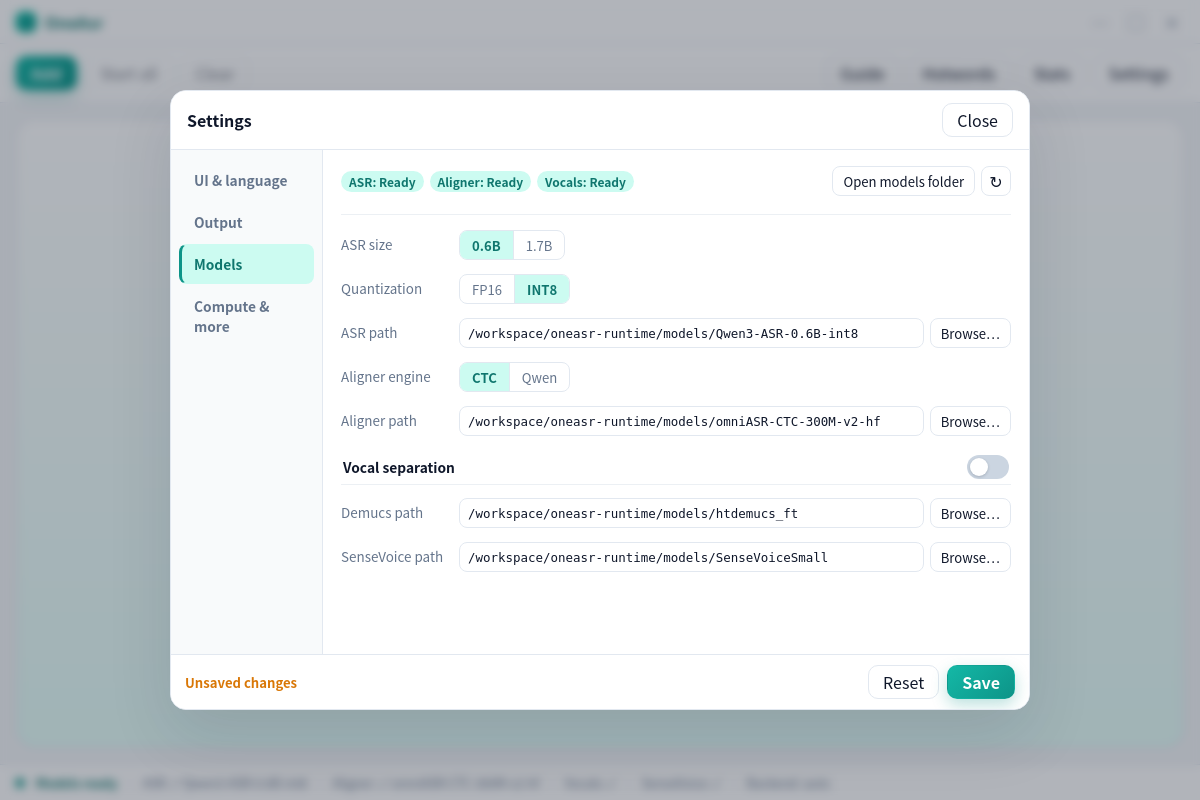
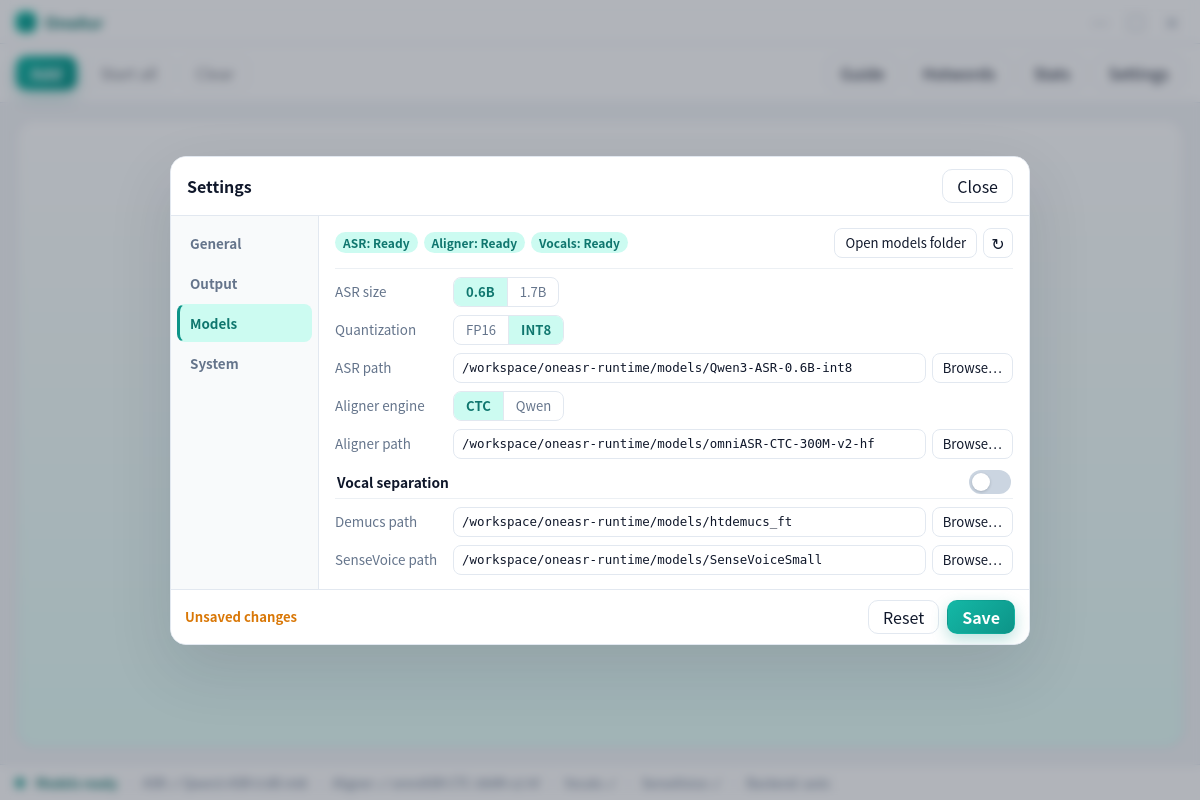
fix(electron): fit settings modal without inner scroll
Grow settings shell with content, drop pane overflow scroll, rename
nav to 通用/输出/模型/系统, and retake settings shots including System.

diff --git a/apps/electron/src/renderer/src/styles/app.css b/apps/electron/src/renderer/src/styles/app.css
@@ -182,7 +182,19 @@ button:disabled { opacity: 0.55; cursor: not-allowed; }
 }
 .modal-shell.wide { width: min(840px, 100%); }
 .modal-shell.tall { max-height: min(90vh, 860px); }
-.modal-shell.settings-shell { width: min(860px, 100%); max-height: min(78vh, 620px); height: min(78vh, 620px); }
+.modal-shell.hw-shell {
+  width: min(880px, 100%);
+  height: auto;
+  max-height: min(90vh, 720px);
+}
+.modal-shell.settings-shell {
+  width: min(860px, 100%);
+  height: auto;
+  max-height: min(90vh, 760px);
+  /* grow with content; only the whole shell scrolls if viewport is tiny */
+  overflow-x: hidden;
+  overflow-y: auto;
+}
 
 .modal-header {
   display: flex; align-items: center; gap: 8px;
@@ -217,8 +229,8 @@ button:disabled { opacity: 0.55; cursor: not-allowed; }
 }
 .field {
   display: grid; grid-template-columns: 108px 1fr;
-  gap: 10px; align-items: center;
-  min-height: 32px;
+  gap: 8px 10px; align-items: center;
+  min-height: 30px;
 }
 .field > label { color: var(--muted); font-size: 0.84rem; line-height: 1.3; }
 .field.stack { grid-template-columns: 1fr; gap: 4px; }
@@ -468,6 +480,7 @@ select:focus, .text-input:focus, textarea.text-input:focus {
   .hw-layout { grid-template-columns: 1fr; min-height: 0; }
   .hw-params { grid-template-columns: 1fr; }
   .modal-shell, .modal-shell.wide, .modal-shell.settings-shell { width: 100%; max-height: 92vh; height: auto; }
+  .modal-shell.settings-shell { overflow: auto; }
 }
 
 .hw-topbar {
@@ -487,27 +500,26 @@ select:focus, .text-input:focus, textarea.text-input:focus {
 
 /* Settings left-nav layout */
 .settings-body {
-  flex: 1;
-  min-height: 0;
   display: grid;
-  grid-template-columns: 152px 1fr;
+  grid-template-columns: 148px 1fr;
   background: var(--panel);
+  flex: 0 1 auto;
 }
 .settings-nav {
   display: flex;
   flex-direction: column;
   gap: 2px;
-  padding: 10px 8px;
+  padding: 8px 6px;
   background: #f8fafb;
   border-right: 1px solid var(--line);
-  overflow: auto;
+  overflow: visible;
 }
 .settings-nav-item {
   text-align: left;
-  padding: 9px 12px;
+  padding: 8px 10px;
   border-radius: 8px;
   color: var(--muted);
-  font-size: 0.86rem;
+  font-size: 0.84rem;
   font-weight: 600;
   border: 1px solid transparent;
   border-left: 3px solid transparent;
@@ -524,18 +536,18 @@ select:focus, .text-input:focus, textarea.text-input:focus {
   font-weight: 750;
 }
 .settings-pane {
-  overflow: auto;
-  padding: 14px 18px 16px;
+  overflow: visible;
+  padding: 12px 16px 14px;
   display: flex;
   flex-direction: column;
-  gap: 12px;
+  gap: 8px;
   background: var(--panel);
   min-width: 0;
 }
 .pane-divider {
   height: 1px;
   background: var(--line-soft);
-  margin: 2px 0;
+  margin: 0;
 }
 
 /* Connected segmented control (exclusive) */
@@ -610,8 +622,8 @@ select:focus, .text-input:focus, textarea.text-input:focus {
   align-items: center;
   justify-content: space-between;
   gap: 12px;
-  min-height: 36px;
-  padding: 4px 2px;
+  min-height: 32px;
+  padding: 2px 2px;
   border-bottom: 1px solid var(--line-soft);
 }
 .pref-row:last-of-type { border-bottom: none; }
@@ -625,9 +637,9 @@ select:focus, .text-input:focus, textarea.text-input:focus {
 .models-toolbar {
   display: flex;
   align-items: center;
-  gap: 10px;
+  gap: 8px;
   flex-wrap: wrap;
-  padding: 2px 0 4px;
+  padding: 0 0 2px;
 }
 .models-status { display: flex; flex-wrap: wrap; gap: 6px; flex: 1; min-width: 0; }
 .models-actions { display: flex; align-items: center; gap: 6px; flex-shrink: 0; }

diff --git a/apps/electron/src/renderer/src/i18n/index.ts b/apps/electron/src/renderer/src/i18n/index.ts
@@ -94,10 +94,10 @@ const zh = {
 4. 完成后「打开目录」查看字幕；默认优先写到源文件旁。
 5. 热词：编辑组与词表（落盘 hotword.json）。完整粗转召回需 CLI 支持 --hotwords。
 6. 人声分离适合嘈杂背景，需要 Demucs 权重且更慢。`,
-  sectionGeneral: '界面与语言',
+  sectionGeneral: '通用',
   sectionOutput: '输出',
   sectionModels: '模型',
-  sectionCompute: '计算与其它',
+  sectionCompute: '系统',
   close: '关闭',
   pickModel: '选择模型目录',
   hotwordTitle: '热词 / 术语',
@@ -231,10 +231,10 @@ const en: Dict = {
 4. Open folder when done; default prefers saving beside the source.
 5. Hotwords: edit groups in hotword.json. Full recall needs CLI --hotwords support.
 6. Vocal separation needs Demucs weights and more time.`,
-  sectionGeneral: 'UI & language',
+  sectionGeneral: 'General',
   sectionOutput: 'Output',
   sectionModels: 'Models',
-  sectionCompute: 'Compute & more',
+  sectionCompute: 'System',
   close: 'Close',
   pickModel: 'Choose model folder',
   hotwordTitle: 'Hotwords / Terms',

diff --git a/apps/electron/src/renderer/src/components/HotwordPanel.tsx b/apps/electron/src/renderer/src/components/HotwordPanel.tsx
@@ -103,7 +103,7 @@ export function HotwordPanel({
   return (
     <div className="overlay" onClick={tryClose}>
       <motion.div
-        className="modal-shell wide tall dense"
+        className="modal-shell hw-shell"
         role="dialog"
         aria-modal="true"
         onClick={(e) => e.stopPropagation()}
@@ -123,7 +123,7 @@ export function HotwordPanel({
           </button>
         </div>
 
-        <div className="modal-body dense" style={{ gap: 8 }}>
+        <div className="modal-body" style={{ gap: 8, overflow: "hidden" }}>
           <div className="hw-layout">
             <aside className="hw-sidebar">
               <div className="hw-sidebar-head">{s.groups}</div>

diff --git a/apps/electron/src/main/index.ts b/apps/electron/src/main/index.ts
@@ -64,6 +64,10 @@ async function runAutoShots(win: BrowserWindow): Promise<void> {
           `document.querySelector('[data-shot="settings-tab-models"]')?.click()`
         )
         await capture(`${lang}-02b-settings-models`)
+        await win.webContents.executeJavaScript(
+          `document.querySelector('[data-shot="settings-tab-compute"]')?.click()`
+        )
+        await capture(`${lang}-02c-settings-system`)
       }
       await win.webContents.executeJavaScript(`window.__oneasrShotApi.open('none')`)
       await sleep(250)
